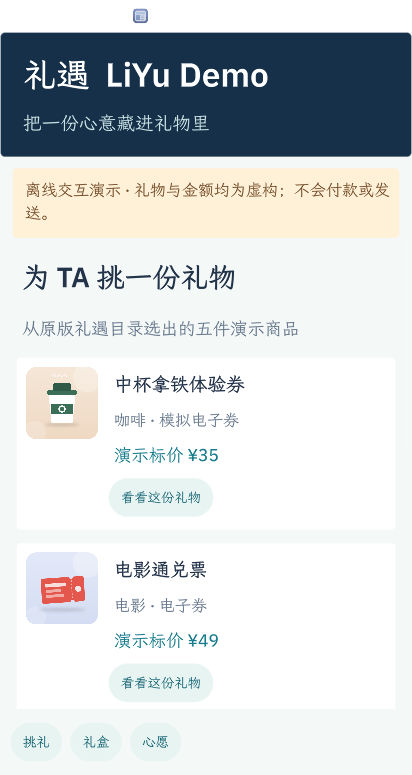
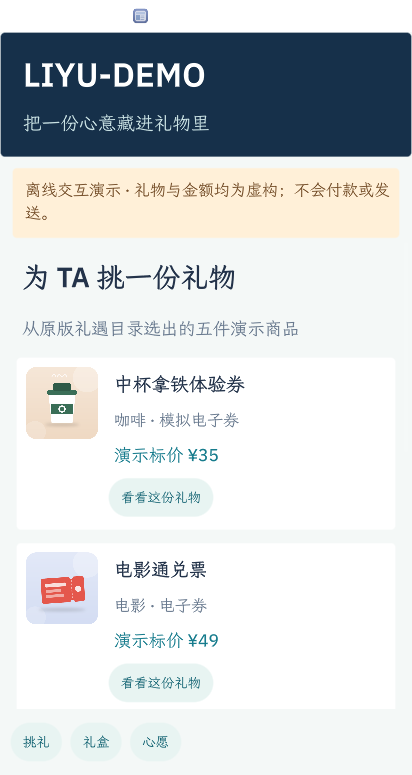
Name demo app LIYU-DEMO

Changed region(s): [[0.0583, 0.0619, 0.6699, 0.1239]]

diff --git a/PRIVACY.md b/PRIVACY.md
@@ -1,6 +1,6 @@
-# LiYu Demo privacy policy (experimental draft)
+# LIYU-DEMO privacy policy (experimental draft)
 
-LiYu Demo is an offline demonstration. It does not ask for an account, password, payment information, contacts, or a one-time code. It does not make network requests.
+LIYU-DEMO is an offline demonstration. It does not ask for an account, password, payment information, contacts, or a one-time code. It does not make network requests.
 
 Gift-card recipient labels and messages, simulated gift state, and wishes are stored in the app's local storage area on the device. They are not transmitted to the publisher. Users can remove individual demo gifts and wishes within the app; deleting the app's data removes the remaining local records.
 

diff --git a/README.md b/README.md
@@ -1,4 +1,4 @@
-# 礼遇 Demo
+# LIYU-DEMO
 
 An offline OctoScript/Splash demonstration of a small part of [LiYu](https://github.com/OctoSense-org/OctoSense/tree/liyu/apps/liyu). It contains a five-item catalog, simulated gift cards, a simple reveal puzzle, and a local wishlist. The product artwork and icon come from the LiYu source tree.
 

diff --git a/BRIEF.md b/BRIEF.md
@@ -1,4 +1,4 @@
-# LiYu Demo brief
+# LIYU-DEMO brief
 
 An offline interactive preview of LiYu's anonymous-gifting idea. No account, payment, contact, delivery, voucher, network request, or AI runs in this version.
 
